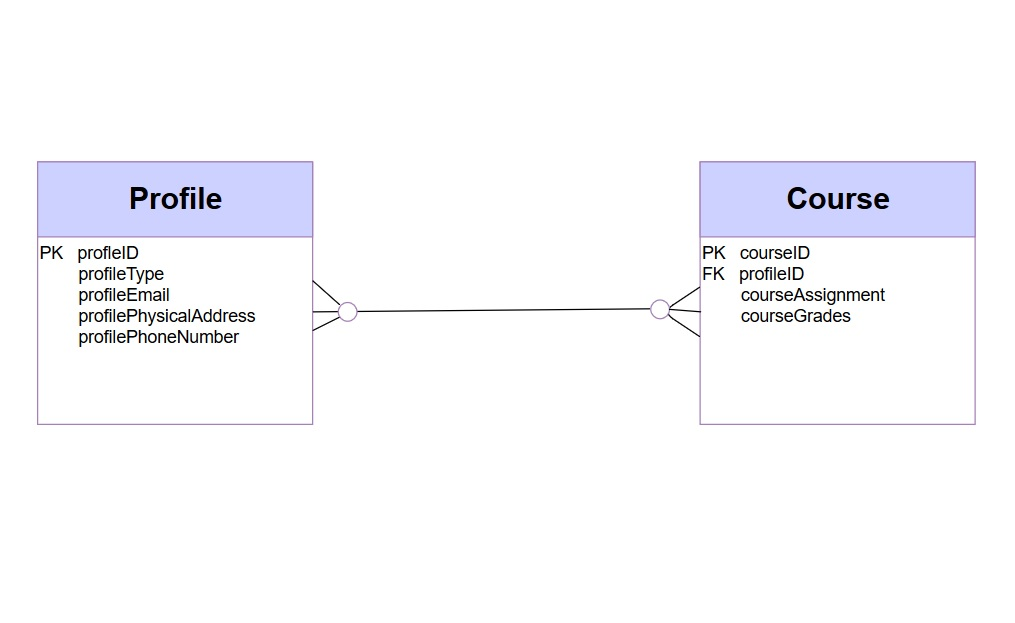
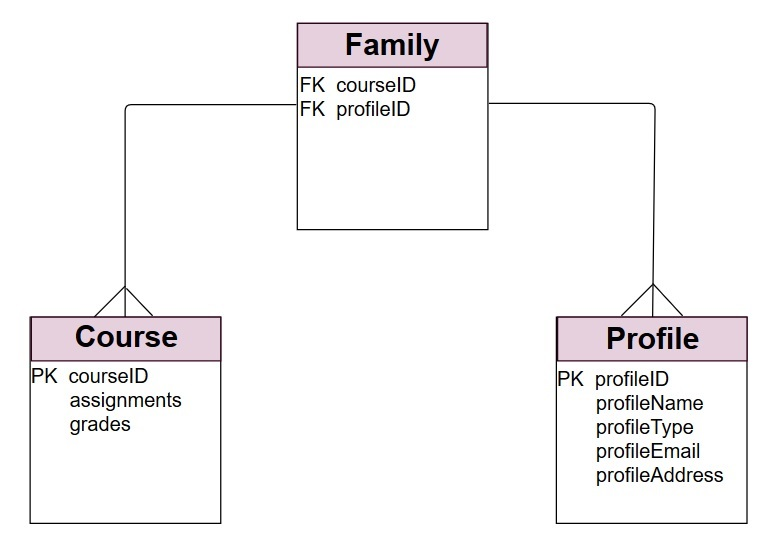
changed image erd.jpg

diff --git a/epic/conceptual-model.html b/epic/conceptual-model.html
@@ -11,10 +11,10 @@
 			<div>
 				<p><em>Profile</em></p>
 				<p>ProfileID (primary key)</p>
+				<p>profileName</p>
 				<p>profileType</p>
 				<p>profileEmail</p>
-				<p>profilePhysicalAddress</p>
-				<p>profilePhoneNumber</p>
+				<p>profileAddress</p>
 			</div>
 			<br>
 			<div>
